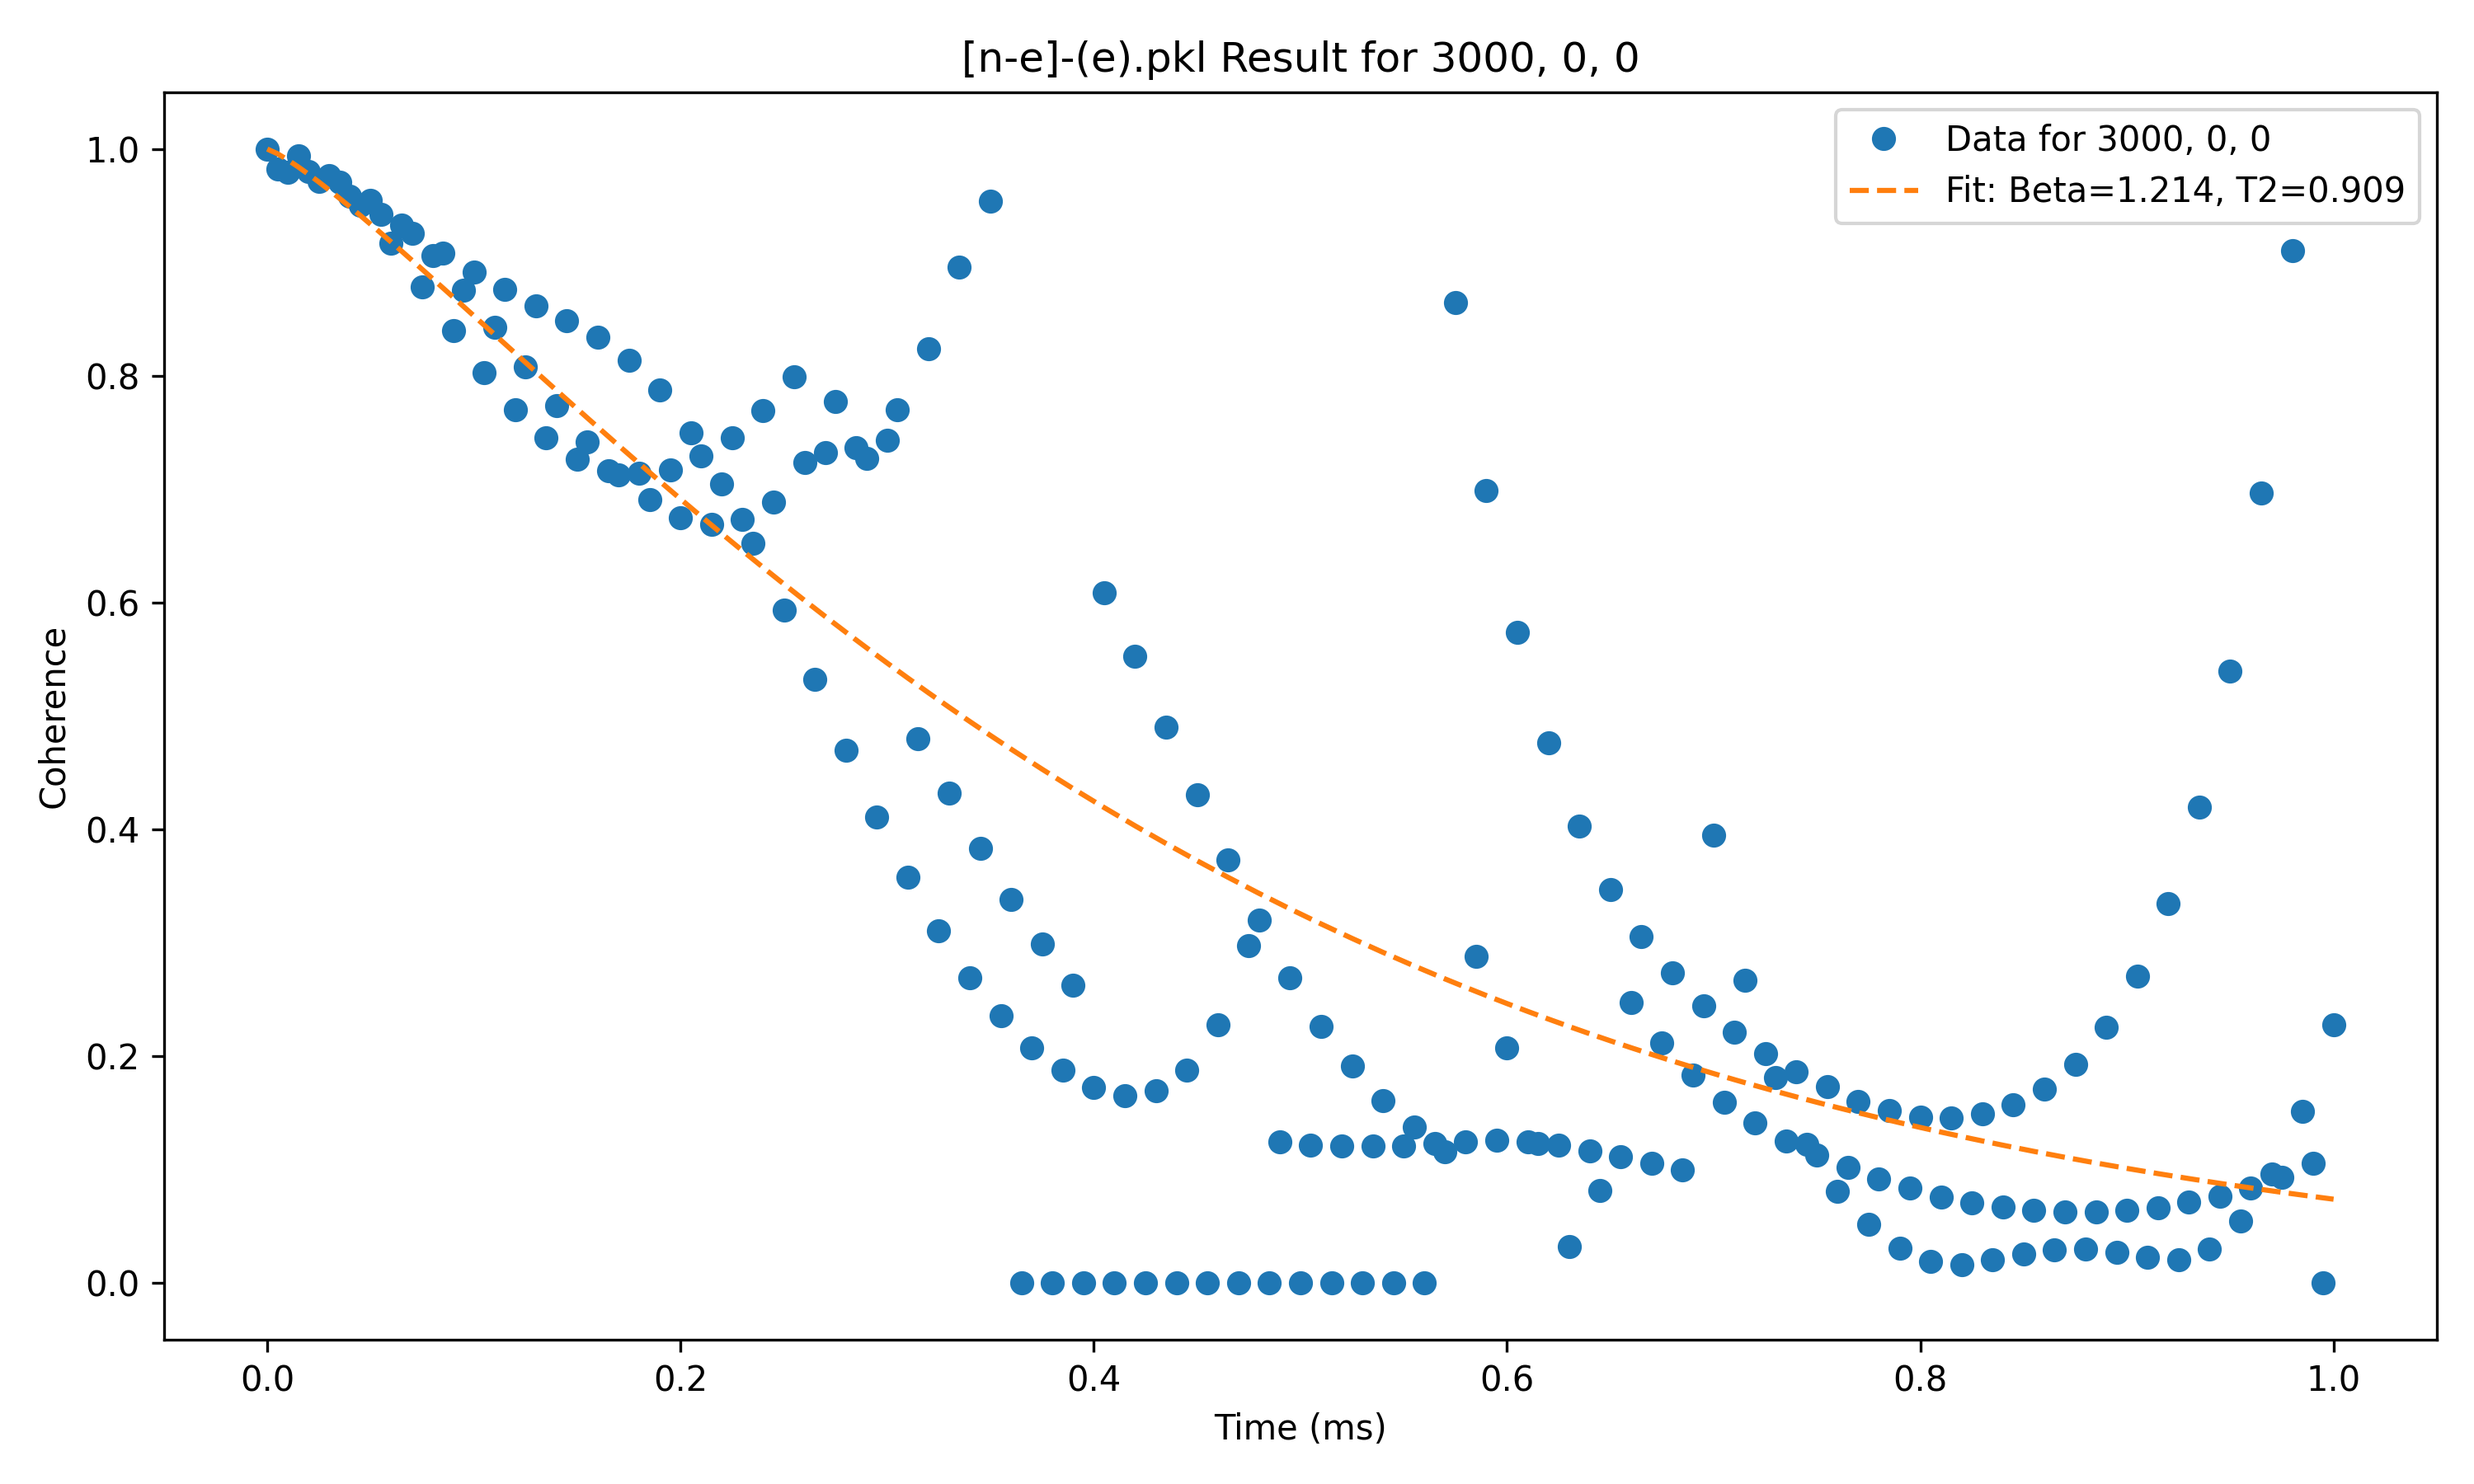
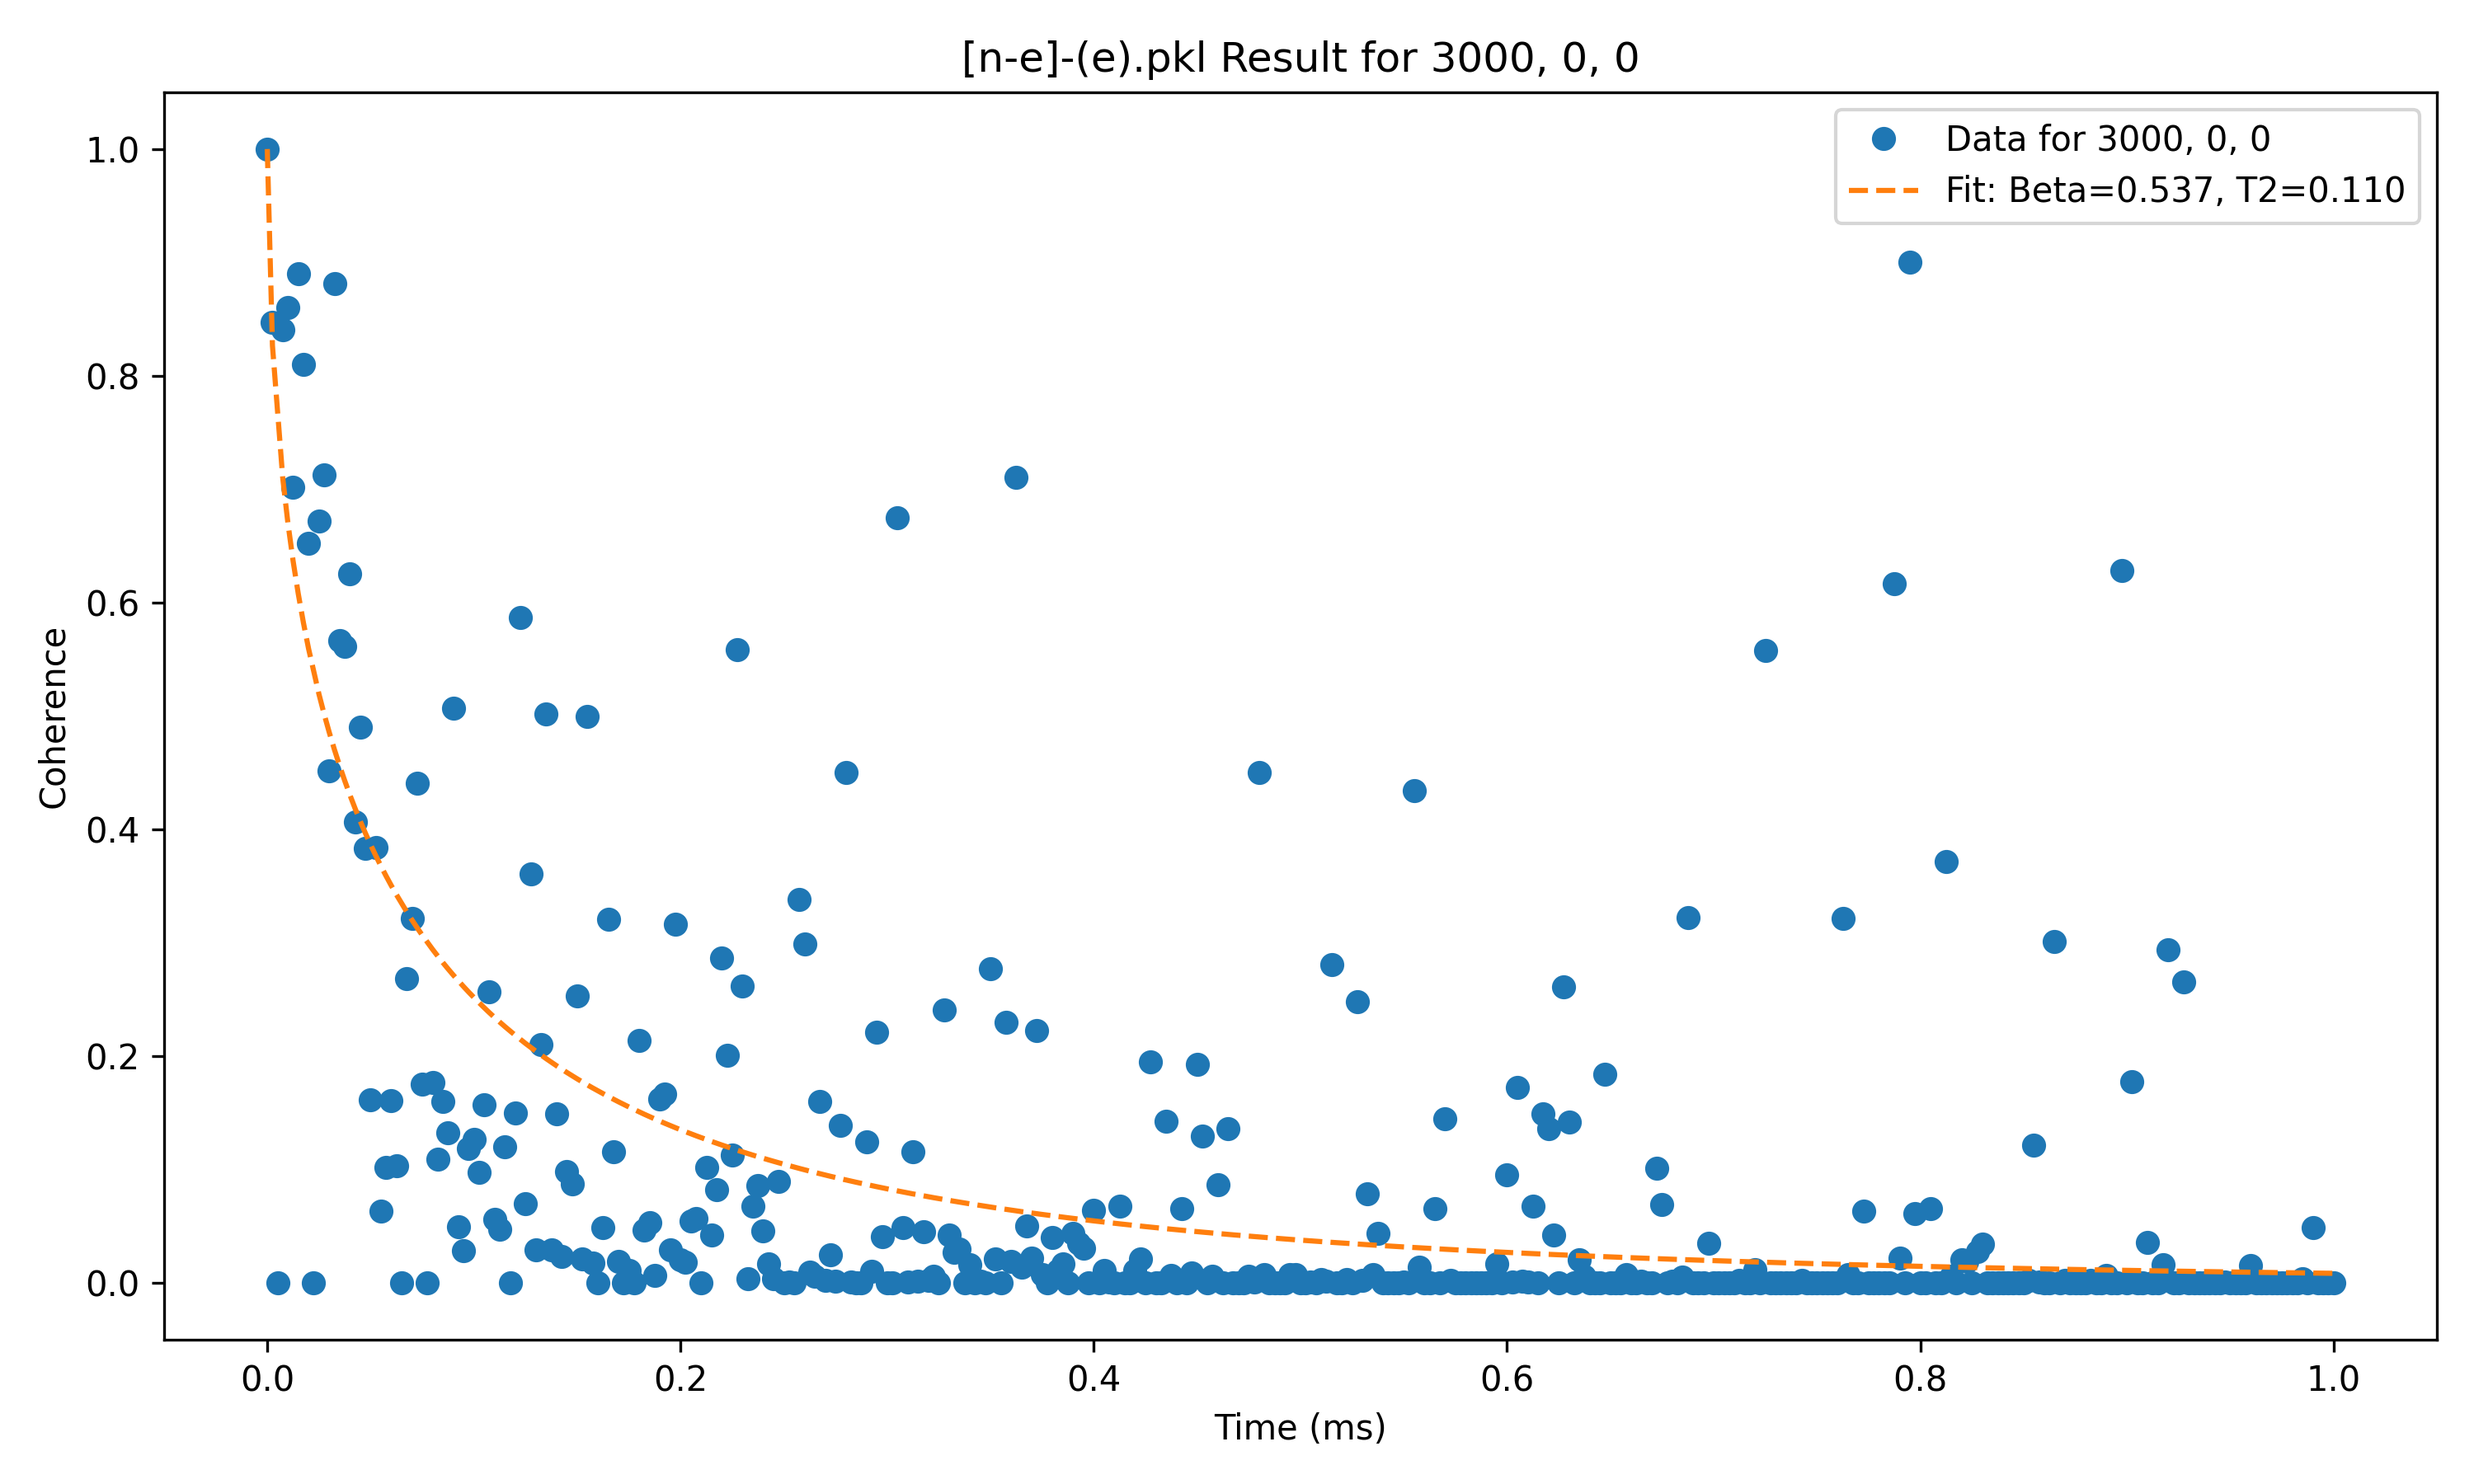
Changed timespace to 401 increments for greater accuracy, T2=110us

diff --git a/VOTPP folder/VOTPP_[n-e]-(e).py b/VOTPP folder/VOTPP_[n-e]-(e).py
@@ -136,7 +136,7 @@ nbstates_list = [128,]
 # r_dipole_list = [8,]
 # cell_size_list = [60,]
 
-timespace_absolute = np.linspace(0, 1, 201)
+timespace_absolute = np.linspace(0, 1, 401)
 
 default_calc_parameters = {
     'timespace': timespace_absolute, # 7e-2
